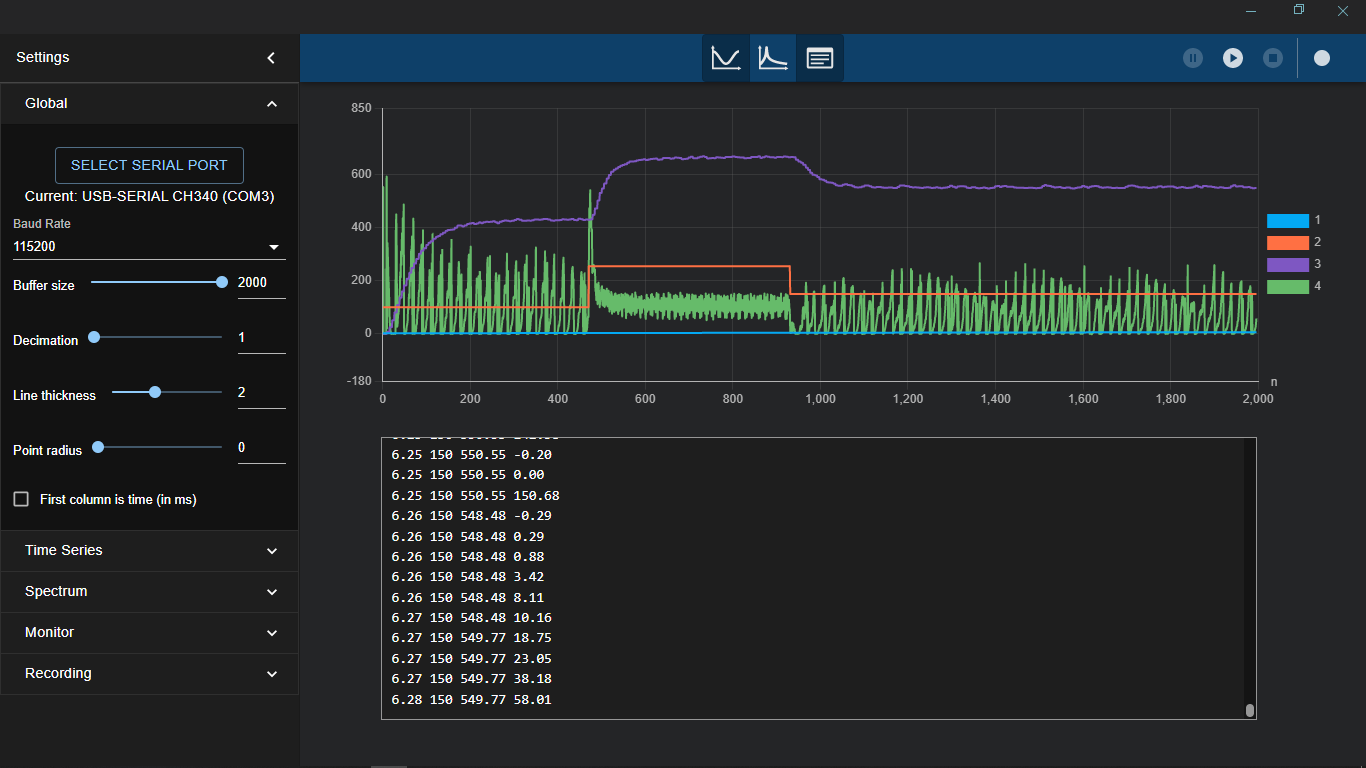
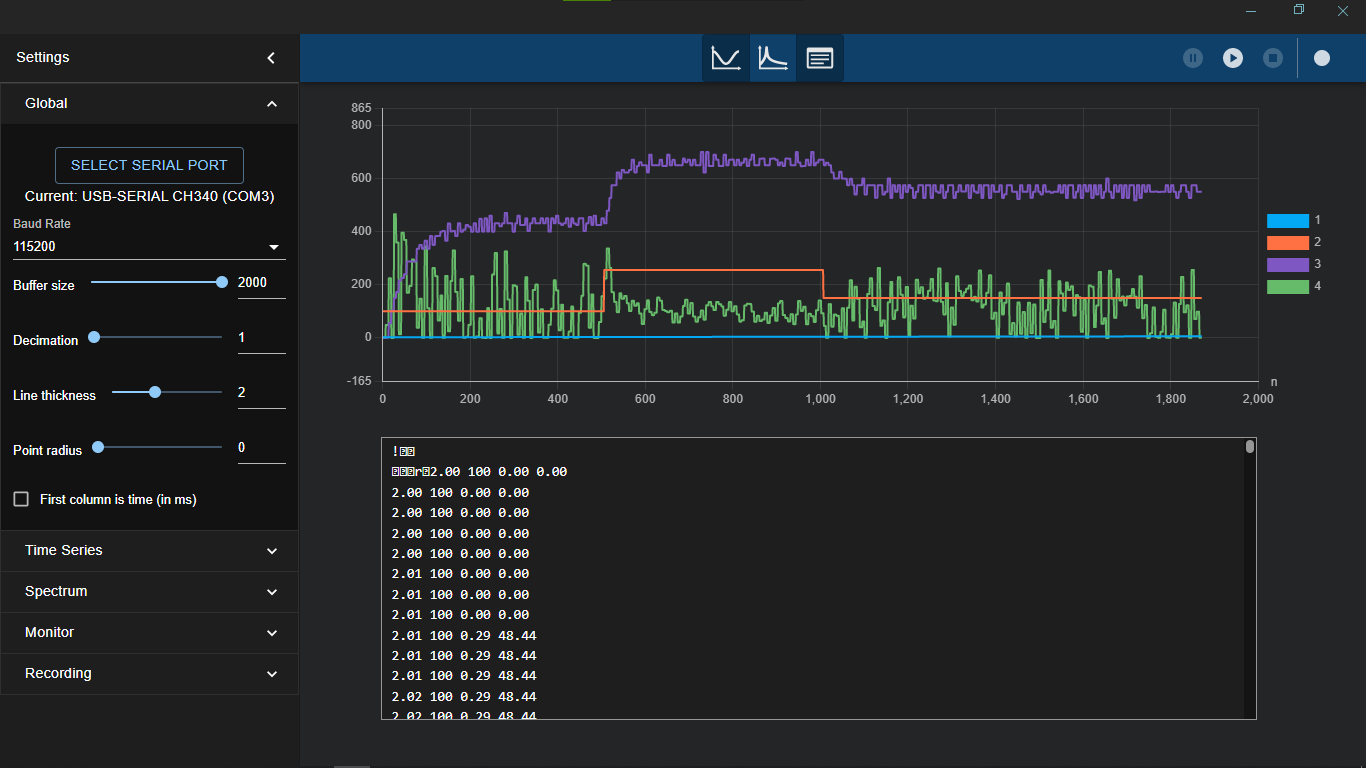
update DCMotorSpeedCurrentReading project

diff --git a/DCMotorSpeedCurrentReading/src/main.cpp b/DCMotorSpeedCurrentReading/src/main.cpp
@@ -7,6 +7,7 @@
 #include <DCMotorDriver.h>
 #include <SpeedEstimator.h>
 #include <INA219.h>
+#include <DigitalFilter.h>
 
 // Motor control pins
 // Modify these pin definitions as per your wiring
@@ -35,15 +36,27 @@ SpeedEstimator speedEstimator(ppr, gearRatio); // ppr, gear
 // Include the Wire library in your main project if needed.
 INA219 INA(0x40); // default address
 
-// globals speed measurement and control variables
-float speedRPM = 0.0; // current velocity
+// globals speed and current measurement and control variables
+float speedRPM = 0.0; // velocity
+float filteredSpeedRPM = 0.0; // filtered velocity
+
+float current_mA = 0.0; // current measurement
+float filteredCurrent_mA = 0.0; // filtered current measurement
 int pwm = 0; // motor pwm
 
 // timer control
 // using unsigned long for millis() compatibility and overflow handling
 unsigned long prevMillis = 0;
 unsigned long prevMillisSpeed = 0;
-unsigned long interval = 10; // 10ms interval
+unsigned long intervalTs = 10; // Sampling interval 10ms
+
+// Digital filter for current measurement
+// cutoff=10Hz, sampling=100Hz
+DigitalFilter currentFilter(DigitalFilter::Type::EWMALowPass,
+     10.0, 1.0 / ((float) intervalTs / 1000.0));
+// cutoff=10Hz, sampling=100Hz
+DigitalFilter speedFilter(DigitalFilter::Type::EWMALowPass,
+     10.0, 1.0 / ((float) intervalTs / 1000.0));
 
 // NOTE: These steps are mandatory to use the SpeedEstimator class!
 // Implement your own method to read encoder pulses. This is just a simplified example.
@@ -98,24 +111,19 @@ void loop() {
   } 
 
   // speed calculation at defined interval 10ms
-  if ((currentMillis - prevMillisSpeed) > interval){
+  if ((currentMillis - prevMillisSpeed) > intervalTs){
     // getting speed
     speedRPM = speedEstimator.estimateSpeed(pos);
+    // filtering speed
+    filteredSpeedRPM = speedFilter.computeFilterOut(speedRPM);
+
+    // get current measurement
+    current_mA = INA.getCurrent_mA();
+    // filter current measurement
+    filteredCurrent_mA = currentFilter.computeFilterOut(current_mA);
+
     prevMillisSpeed = currentMillis;
   }
-
-  Serial.print((float) currentMillis / 1000.0);
-  Serial.print(" ");
-  Serial.print(pwm);
-  Serial.print(" ");
-  Serial.print(speedRPM);
-  Serial.print(" ");
-  // Serial.print(INA.getBusVoltage_mV(), 2);
-  // Serial.print(" ");
-  // Serial.println(INA.getFilteredtCurrent_mA(), 2);
-  Serial.println(INA.getCurrent_mA(), 2);
-
-  // delay(10);
 
   // Timing control for pwm changes
   if ((currentMillis - prevMillis) > 1000 && (currentMillis - prevMillis) < 2000)
@@ -124,6 +132,18 @@ void loop() {
   } else if ((currentMillis - prevMillis) > 2000) {
     pwm = 150;
   }
+
+  // Serial.print(((float)currentMillis) / 1000.0);
+  Serial.print(" ");
+  Serial.print(pwm);
+  Serial.print(" ");
+  Serial.print(filteredSpeedRPM, 2);
+  Serial.print(" ");
+  Serial.print(speedRPM, 2);
+  Serial.print(" ");
+  Serial.print(filteredCurrent_mA, 2);
+  Serial.print(" ");
+  Serial.println(current_mA, 2);
 }
 
 void readEncoder() {

diff --git a/DCMotorSpeedCurrentReading/README.md b/DCMotorSpeedCurrentReading/README.md
@@ -1,12 +1,13 @@
 # DCMotorSpeedCurrentReading
 
-## Overview
-This project leverages the [SpeedEstimator_dff](https://github.com/bulb-light/SpeedEstimator_dff) and [INA219](https://github.com/RobTillaart/INA219) libraries to read the speed of a DC motor using magnetic encoder pulse data, as well as the current consumption via the INA219 sensor.
+This project leverages the [SpeedEstimator_dff](https://github.com/bulb-light/SpeedEstimator_dff), [INA219](https://github.com/RobTillaart/INA219) and [DigitalFilter_dff](https://github.com/bulb-light/DigitalFilter_dff) libraries to read the speed of a DC motor using magnetic encoder pulse data, as well as the current consumption via the INA219 sensor.
 
 ## Features
-- **[SpeedEstimator_dff](https://github.com/bulb-light/SpeedEstimator_dff)**: This lib calculates motor speed in RPM using encoder pulse data.
+- **[SpeedEstimator_dff](https://github.com/bulb-light/SpeedEstimator_dff)**: This library calculates motor speed in RPM using encoder pulse data.
 - **Current Measurement**: Reads motor current using the [INA219](https://github.com/RobTillaart/INA219) sensor.
-- **Modular Design**: Includes reusable libraries for speed estimation, current sensing, and motor control.
+- **[DigitalFilter_dff](https://github.com/bulb-light/DigitalFilter_dff)**: This library filters raw sensor signal.
+- **[DCMotorDriver_dff](https://github.com/bulb-light/DCMotorDriver_dff)**: This library controls the PWM signal fed to the motor driver (e.g., L298N).
+- **Modular Design**: Includes reusable libraries for speed estimation, current sensing, signal filtering, and motor control.
 
 ## Project Structure
 ```
@@ -14,6 +15,7 @@ DCMotorSpeedCurrentReading/
 ├── include/                # Header files
 ├── lib/                    # Libraries
 │   ├── DCMotorDriver_dff/  # Motor driver library
+|   ├── DigitalFilter_dff   # Signal filtering library
 │   ├── INA219/             # INA219 current sensor library
 │   └── SpeedEstimator_dff/ # Speed estimation library
 ├── src/                    # Source files
@@ -26,13 +28,21 @@ DCMotorSpeedCurrentReading/
 ## Dependencies
 - **[PlatformIO](https://platformio.org/)** or **[Arduino IDE](https://www.arduino.cc/)**: Used for building and uploading the project.
 - **Arduino Framework**: Provides the base for the project.
-- **[INA219](https://github.com/RobTillaart/INA219) Library**: For current sensing.
-- **[SpeedEstimator_dff](https://github.com/bulb-light/SpeedEstimator_dff) Library**: For speed reading.
+- **[SpeedEstimator_dff](https://github.com/bulb-light/SpeedEstimator_dff)**: For speed reading.
+- **[INA219](https://github.com/RobTillaart/INA219)**: For current sensing.
+- **[DigitalFilter_dff](https://github.com/bulb-light/DigitalFilter_dff)**: For signal filtering.
+- **[DCMotorDriver_dff](https://github.com/bulb-light/DCMotorDriver_dff)**: For DC Motor control.
 
 ## Getting Started
+
 ### Prerequisites
-- A compatible IDE that supports the Arduino framework, preferably [PlatformIO](https://platformio.org/).
-- Ensure you have a compatible microcontroller (e.g., Arduino Uno, ESP32).
+- A compatible IDE that supports the Arduino framework, preferably [PlatformIO](https://platformio.org/)
+- Ensure you have a compatible microcontroller (e.g., Arduino Uno, ESP32)
+- DC Motor
+- DC Motor Driver
+- Encoder for DC Motor speed reading (e.g., magentic encoder)
+- INA219 sensor for DC current reading
+- Resistors and other basic electronic components
 
 ### Installation
 1. Clone this repository along with the linked submodules:
@@ -62,19 +72,26 @@ DCMotorSpeedCurrentReading/
 ## Usage
 - The project reads encoder pulses and calculates motor speed in RPM.
 - It also measures the motor's current using the INA219 sensor.
+- These signals are filtered using an EWMA low-pass filter.
 - The results are printed to the serial monitor.
 
-The project result is shown below.
+The unfiltered signals are is shown below.
 
 <p align="center">
-   <img src="images/speed_current_reading.png" width="600" alt="Speed current reading plots">
+   <img src="images/speed_current_reading.png" width="700" alt="Speed current reading plots">
+</p>
+
+The result of applying the EWMA low-pass filter is shown below.
+
+<p align="center">
+   <img src="images/speed_current_reading_filtered.png" width="700" alt="Speed current reading filtered">
 </p>
 
 ### Block diagram
 Refer to the following diagram for the wiring connections:
 
 <p align="center">
-   <img src="images/speed_current_reading_connections.webp" width="600" alt="Speed current reading connections">
+   <img src="images/speed_current_reading_connections.webp" width="700" alt="Speed current reading connections">
 </p>
 
 ## Contributing
